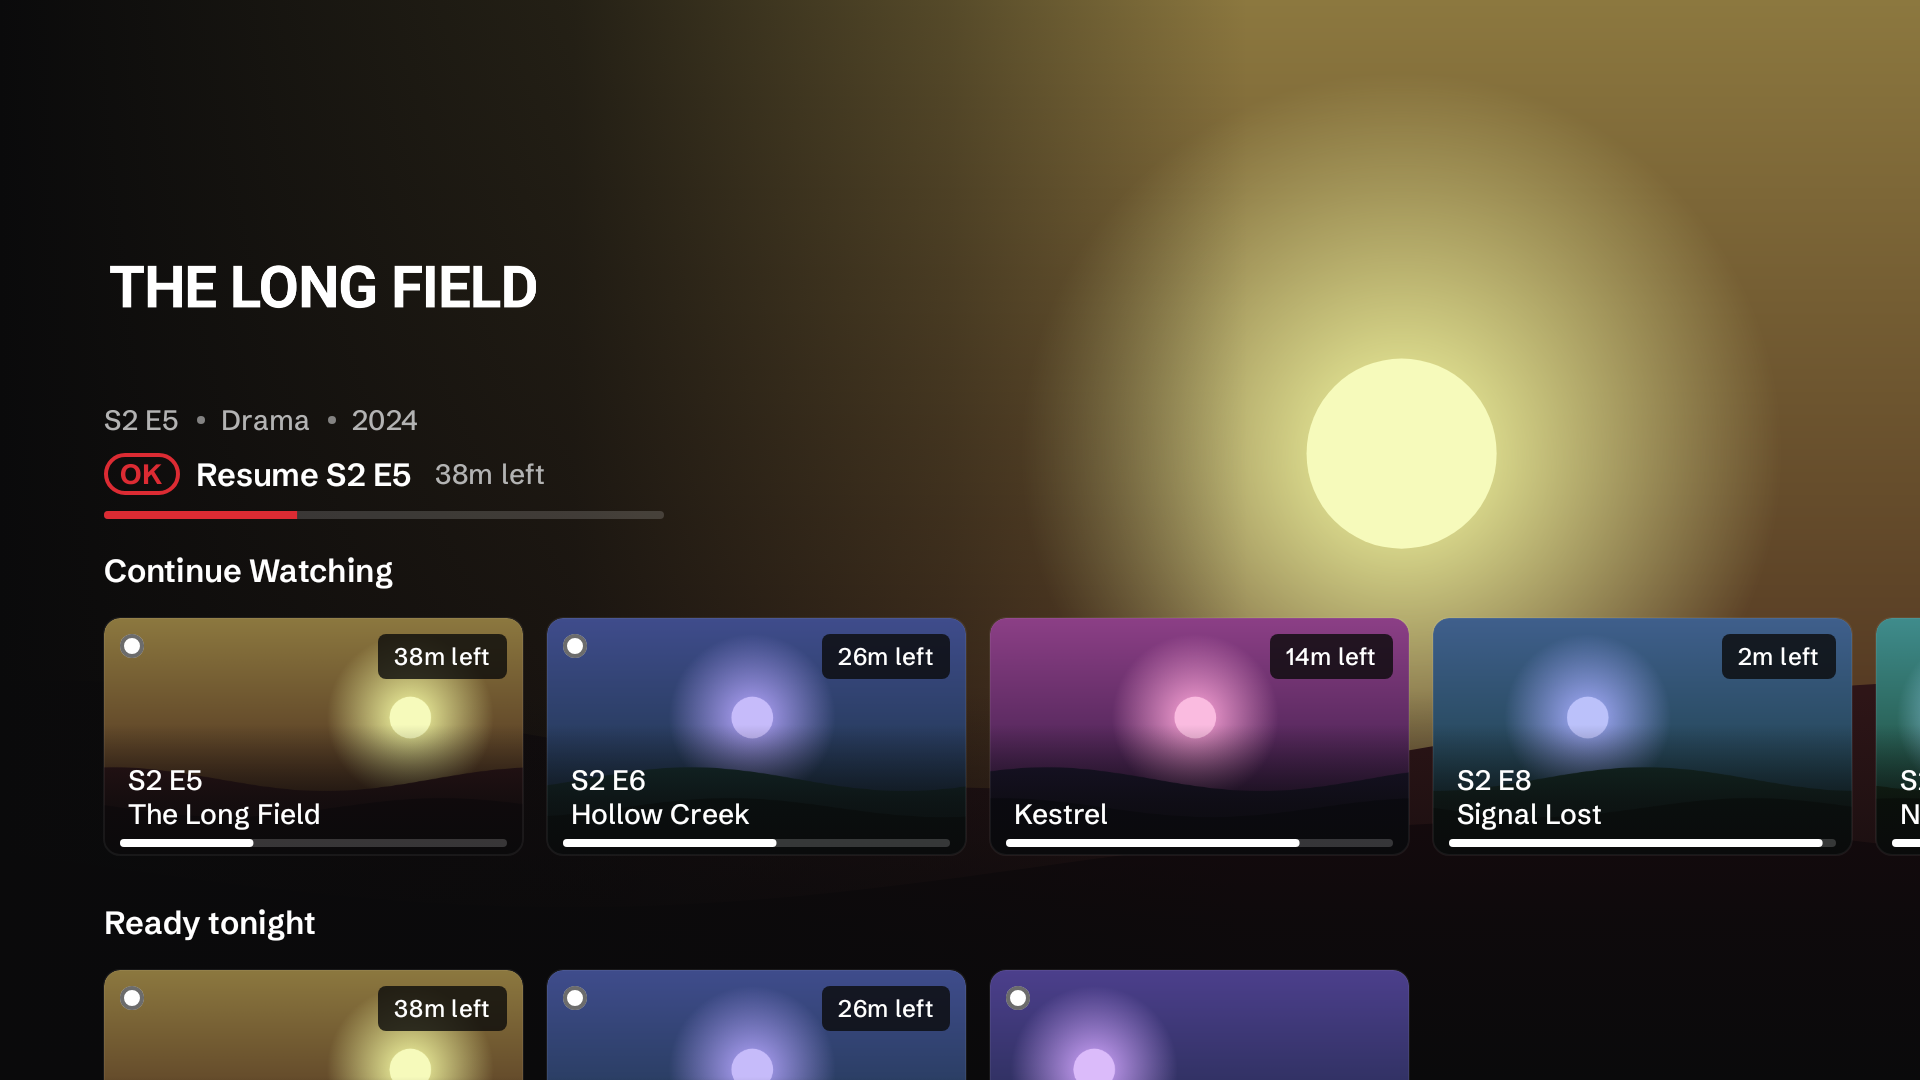
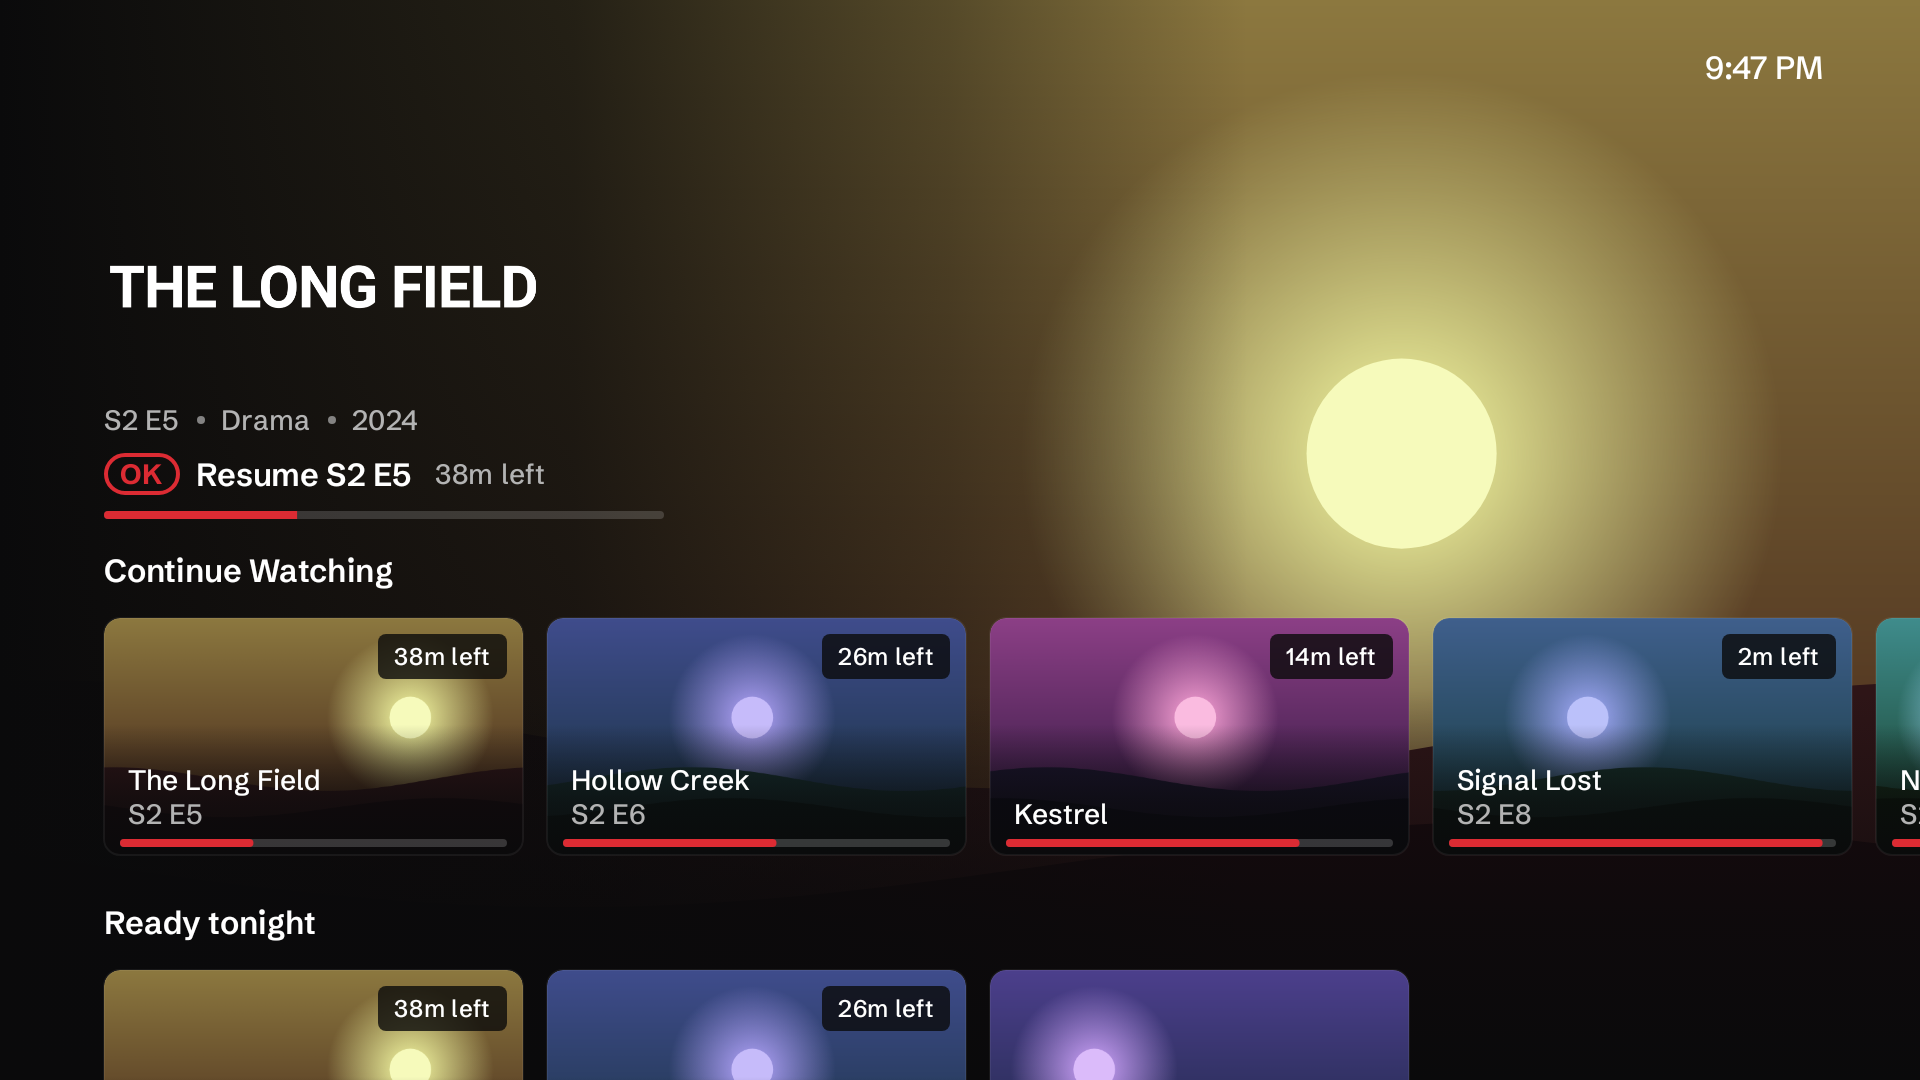
Stage 3: Home
- Hero backdrop crossfades over 400ms with a strong ease-out once focus
  settles on a title (still a cut with reduced motion or low RAM). The
  left and bottom scrims were already there and stay.
- A title without logo art is set in a medium weight instead of bold.
- Cards lead with the show's title, then "S2 E6 · Episode name"; the
  time left stays in the corner badge. Watch progress on Continue
  Watching, Ready tonight and episode cards is Fetch red, as is the
  hero's OK hint and its progress line.
- The white "ready" dot on cards is gone; "Ready tonight" and the hero's
  "Cached" label still say a title will start at once.
- A clock (12/24-hour per the TV) sits top right on Home and steps
  aside with the hero text when a trailer plays full screen.
- Screenshot tests render every clock at a fixed 9:47 pm.

Rows already pin the focused card to the row's start, so focus keeps
one position while the row slides; no change there.

diff --git a/app/src/main/java/com/fetch/tv/ui/components/ContinueWatchingSection.kt b/app/src/main/java/com/fetch/tv/ui/components/ContinueWatchingSection.kt
@@ -783,7 +783,6 @@ fun ContinueWatchingCard(
                 }
 
                 if (item.shufflePlayback) EpisodeShuffleBadge(Modifier.align(Alignment.TopStart))
-                if (isReady) ReadyDot(Modifier.align(Alignment.TopStart).padding(FetchTheme.spacing.sm))
 
                 // Content info at bottom
                 if (!textBelowArtwork) {
@@ -841,7 +840,7 @@ fun ContinueWatchingCard(
                                 }
                             )
                     ) {
-                        Box(modifier = Modifier.fetchCardProgress(progressFraction, FetchTheme.colors.TextPrimary))
+                        Box(modifier = Modifier.fetchCardProgress(progressFraction, FetchTheme.colors.Accent))
                     }
                 }
             }
@@ -942,7 +941,6 @@ private fun WideCardContent(
                 )
             }
             if (shufflePlayback) EpisodeShuffleBadge(Modifier.align(Alignment.TopStart))
-            if (isReady) ReadyDot(Modifier.align(Alignment.TopStart).padding(FetchTheme.spacing.xs))
         }
 
         Column(
@@ -1018,7 +1016,7 @@ private fun WideCardContent(
                     .alpha(if (hasProgress) 1f else 0f),
                 verticalArrangement = Arrangement.spacedBy(FetchTheme.spacing.xxs)
             ) {
-                Box(modifier = Modifier.fetchCardProgress(progressFraction, FetchTheme.colors.TextPrimary))
+                Box(modifier = Modifier.fetchCardProgress(progressFraction, FetchTheme.colors.Accent))
                 Text(
                     text = badgeText,
                     style = MaterialTheme.typography.labelSmall,
@@ -1040,14 +1038,7 @@ private fun ContinueWatchingCardText(
     titleMarqueeActive: Boolean,
     episodeTitle: String?
 ) {
-    if (episodeStr != null) {
-        Text(
-            text = episodeStr,
-            style = MaterialTheme.typography.labelMedium,
-            color = FetchTheme.colors.TextPrimary
-        )
-    }
-
+    // The show first, then which episode: "S2 E6 · The Hollow".
     FocusMarqueeText(
         text = titleText,
         focused = titleMarqueeActive,
@@ -1055,10 +1046,11 @@ private fun ContinueWatchingCardText(
         color = FetchTheme.colors.TextPrimary
     )
 
-    episodeTitle?.let { title ->
+    val episodeLine = listOfNotNull(episodeStr, episodeTitle).joinToString(" · ")
+    if (episodeLine.isNotEmpty()) {
         Text(
-            text = title,
-            style = MaterialTheme.typography.bodySmall,
+            text = episodeLine,
+            style = MaterialTheme.typography.labelMedium,
             color = FetchTheme.extendedColors.textSecondary,
             maxLines = 1,
             overflow = TextOverflow.Ellipsis

diff --git a/app/src/main/java/com/fetch/tv/ui/components/ClockText.kt b/app/src/main/java/com/fetch/tv/ui/components/ClockText.kt
@@ -1,0 +1,59 @@
+package com.fetch.tv.ui.components
+
+import android.text.format.DateFormat
+import androidx.compose.runtime.Composable
+import androidx.compose.runtime.LaunchedEffect
+import androidx.compose.runtime.getValue
+import androidx.compose.runtime.mutableLongStateOf
+import androidx.compose.runtime.remember
+import androidx.compose.runtime.setValue
+import androidx.compose.runtime.staticCompositionLocalOf
+import androidx.compose.ui.Modifier
+import androidx.compose.ui.platform.LocalConfiguration
+import androidx.compose.ui.platform.LocalContext
+import androidx.tv.material3.MaterialTheme
+import androidx.tv.material3.Text
+import com.fetch.tv.ui.theme.FetchTheme
+import kotlinx.coroutines.delay
+import java.time.Instant
+import java.time.ZoneId
+import java.time.format.DateTimeFormatter
+import java.time.format.FormatStyle
+
+/** The wall clock [ClockText] shows; screenshot tests provide a fixed time. */
+val LocalWallClock = staticCompositionLocalOf<() -> Long> { System::currentTimeMillis }
+
+/**
+ * The time in the TV's own style ("7:42 PM" or "19:42"), refreshed on the minute. Not focusable:
+ * it is information in a corner, never a control.
+ */
+@Composable
+fun ClockText(modifier: Modifier = Modifier) {
+    val context = LocalContext.current
+    val locale = LocalConfiguration.current.locales[0]
+    val clock = LocalWallClock.current
+    var minute by remember { mutableLongStateOf(clock() / 60_000L) }
+    LaunchedEffect(clock) {
+        while (true) {
+            val now = clock()
+            minute = now / 60_000L
+            delay(60_000L - now % 60_000L)
+        }
+    }
+    val is24Hour = DateFormat.is24HourFormat(context)
+    val text = remember(minute, is24Hour, locale) {
+        val formatter = if (is24Hour) {
+            DateTimeFormatter.ofPattern("HH:mm", locale)
+        } else {
+            DateTimeFormatter.ofLocalizedTime(FormatStyle.SHORT).withLocale(locale)
+        }
+        formatter.withZone(ZoneId.systemDefault()).format(Instant.ofEpochMilli(minute * 60_000L))
+    }
+    Text(
+        text = text,
+        style = MaterialTheme.typography.titleMedium,
+        color = FetchTheme.colors.TextPrimary,
+        maxLines = 1,
+        modifier = modifier
+    )
+}

diff --git a/app/src/main/java/com/fetch/tv/ui/components/FetchCardDefaults.kt b/app/src/main/java/com/fetch/tv/ui/components/FetchCardDefaults.kt
@@ -2,11 +2,9 @@ package com.fetch.tv.ui.components
 
 import androidx.compose.foundation.background
 import androidx.compose.foundation.border
-import androidx.compose.foundation.layout.Box
 import androidx.compose.foundation.layout.fillMaxWidth
 import androidx.compose.foundation.layout.height
 import androidx.compose.foundation.layout.size
-import androidx.compose.foundation.shape.CircleShape
 import androidx.compose.runtime.Composable
 import androidx.compose.runtime.ReadOnlyComposable
 import androidx.compose.ui.Modifier
@@ -15,13 +13,8 @@ import androidx.compose.ui.geometry.CornerRadius
 import androidx.compose.ui.geometry.Size
 import androidx.compose.ui.graphics.Color
 import androidx.compose.ui.graphics.Shape
-import androidx.compose.ui.res.stringResource
-import androidx.compose.ui.semantics.contentDescription
-import androidx.compose.ui.semantics.semantics
 import androidx.compose.ui.unit.Dp
-import androidx.compose.ui.unit.dp
 import androidx.tv.material3.Border
-import com.fetch.tv.R
 import com.fetch.tv.ui.theme.FetchComponents
 import com.fetch.tv.ui.theme.FetchStrokes
 import com.fetch.tv.ui.theme.FetchTheme
@@ -80,19 +73,3 @@ fun Modifier.fetchCardProgress(progress: Float, fillColor: Color): Modifier = th
             }
         }
     }
-
-/**
- * Fetch's "ready" mark: a small white dot on a card whose Best match is cached and recently
- * confirmed, so OK starts it at once. It means only that, everywhere it appears.
- */
-@Composable
-fun ReadyDot(modifier: Modifier = Modifier) {
-    val description = stringResource(R.string.ready_to_play)
-    Box(
-        modifier = modifier
-            .size(12.dp)
-            .border(2.dp, FetchTheme.colors.Background.copy(alpha = 0.6f), CircleShape)
-            .background(FetchTheme.colors.TextPrimary, CircleShape)
-            .semantics { contentDescription = description }
-    )
-}

diff --git a/app/src/test/java/com/fetch/tv/screenshots/ReadmeScreenshots.kt b/app/src/test/java/com/fetch/tv/screenshots/ReadmeScreenshots.kt
@@ -287,10 +287,7 @@ class ReadmeScreenshots {
     @Test
     fun ambientClock() = render("ambient-clock", focusFirst = false) {
         val resume = (Samples.continueWatching.first() as com.fetch.tv.ui.screens.home.ContinueWatchingItem.InProgress).progress
-        // 9:47 pm on a Thursday, at an even second so the colon is lit.
-        val evening = java.time.LocalDateTime.of(2026, 10, 29, 21, 47, 0)
-            .atZone(java.time.ZoneId.systemDefault()).toInstant().toEpochMilli()
-        AmbientClock(resume = resume, now = { evening })
+        AmbientClock(resume = resume, now = { SAMPLE_EVENING })
     }
 
     @Test
@@ -426,7 +423,12 @@ class ReadmeScreenshots {
         appTheme: AppTheme = DEFAULT_APP_THEME,
         content: @Composable () -> Unit
     ) {
-        compose.setContent { FetchTheme(appTheme = appTheme) { content() } }
+        // A fixed evening, so the clocks on screen don't change every run.
+        compose.setContent {
+            CompositionLocalProvider(com.fetch.tv.ui.components.LocalWallClock provides { SAMPLE_EVENING }) {
+                FetchTheme(appTheme = appTheme) { content() }
+            }
+        }
         // Let images load and enter animations settle before drawing.
         repeat(6) {
             compose.mainClock.advanceTimeBy(1_000)
@@ -452,3 +454,7 @@ class ReadmeScreenshots {
         println("Wrote $out (${bitmap.width}x${bitmap.height})")
     }
 }
+
+/** 9:47 pm on a Thursday, at an even second so the Ambient Mode clock's colon is lit. */
+private val SAMPLE_EVENING: Long = java.time.LocalDateTime.of(2026, 10, 29, 21, 47, 0)
+    .atZone(java.time.ZoneId.systemDefault()).toInstant().toEpochMilli()

diff --git a/app/src/main/java/com/fetch/tv/ui/screens/home/ModernHomeHero.kt b/app/src/main/java/com/fetch/tv/ui/screens/home/ModernHomeHero.kt
@@ -175,10 +175,15 @@ internal fun ModernHeroMediaLayer(
         displayedBackdrop?.let { HeroBackdropState.update(it) }
     }
 
-    // Focus settles on a new card hundreds of times a day: keep the backdrop swap short, and
-    // skip the blend entirely when motion is reduced (also the low-RAM path).
+    // A slow, eased blend so moving between titles feels like a cut in a film, not a flicker.
+    // It only starts once focus settles (the URL is frozen upstream during fast moves), and is
+    // skipped entirely when motion is reduced (also the low-RAM path).
     val backdropCrossfadeSpec: FiniteAnimationSpec<Float> =
-        if (FetchTheme.fullMotion) FetchMotion.enterTween() else snap()
+        if (FetchTheme.fullMotion) {
+            tween(FetchMotion.tokens.durations.backdropCrossfade, easing = FetchMotion.tokens.easings.out)
+        } else {
+            snap()
+        }
 
     Box(modifier = modifier) {
         androidx.compose.animation.Crossfade(
@@ -407,8 +412,10 @@ private fun HeroTitleContent(
         animationSpec = tween(durationMillis = FetchMotion.tokens.durations.slow),
         label = "heroMetaFade"
     )
+    // Without a logo the title is set in a medium weight: a title card, not a block headline.
     val scaledTitleStyle = remember(headlineLarge, titleScale) {
         headlineLarge.copy(
+            fontWeight = FontWeight.Medium,
             fontSize = headlineLarge.fontSize * titleScale,
             lineHeight = headlineLarge.lineHeight * titleScale
         )

diff --git a/app/src/main/java/com/fetch/tv/ui/screens/home/ModernHomeRows.kt b/app/src/main/java/com/fetch/tv/ui/screens/home/ModernHomeRows.kt
@@ -122,7 +122,6 @@ import com.fetch.tv.ui.components.continueWatchingShouldBlur
 import com.fetch.tv.ui.components.continueWatchingUsesEpisodeThumbnails
 import com.fetch.tv.ui.components.MonochromePosterPlaceholder
 import com.fetch.tv.ui.components.TrailerPlayer
-import com.fetch.tv.ui.components.ReadyDot
 import com.fetch.tv.ui.components.WatchedMarker
 import com.fetch.tv.ui.components.placeholderCardShimmer
 import com.fetch.tv.ui.components.LightweightCard
@@ -1521,14 +1520,6 @@ private fun ModernCarouselCard(
                         modifier = Modifier
                             .align(Alignment.TopEnd)
                             .padding(end = FetchTheme.spacing.sm, top = FetchTheme.spacing.sm)
-                            .zIndex(2f)
-                    )
-                }
-                if (isReady) {
-                    ReadyDot(
-                        modifier = Modifier
-                            .align(Alignment.TopStart)
-                            .padding(FetchTheme.spacing.sm)
                             .zIndex(2f)
                     )
                 }

diff --git a/app/src/main/java/com/fetch/tv/ui/screens/home/ModernHomeContent.kt b/app/src/main/java/com/fetch/tv/ui/screens/home/ModernHomeContent.kt
@@ -1195,6 +1195,15 @@ fun ModernHomeContent(
                 modifier = heroMetadataModifier
             )
 
+            // The time, top right, so a long evening on the couch has a clock without leaving.
+            // Steps aside with the hero text when a trailer plays full screen.
+            com.fetch.tv.ui.components.ClockText(
+                modifier = Modifier
+                    .align(Alignment.TopEnd)
+                    .padding(top = FetchTheme.spacing.xl, end = FetchTheme.spacing.xxxl)
+                    .graphicsLayer { alpha = trailerContentAlphaState.value }
+            )
+
             val latestOnFocusedRowKeyChanged by rememberUpdatedState(onFocusedRowKeyChanged)
             val onActiveRowKeyChangeLambda = remember {
                 { key: String? ->

diff --git a/app/src/main/java/com/fetch/tv/ui/screens/detail/EpisodesSection.kt b/app/src/main/java/com/fetch/tv/ui/screens/detail/EpisodesSection.kt
@@ -809,7 +809,7 @@ private fun EpisodeCard(
         episode.episode?.let { number -> "$prefix $number" } ?: prefix
     }
 
-    val progressColor = FetchTheme.colors.TextPrimary
+    val progressColor = FetchTheme.colors.Accent
     val textPrimary = FetchTheme.colors.TextPrimary
     val focusRingBorder = FetchTheme.focusRing.border(FetchCardDefaults.FocusedBorderWidth)
 
